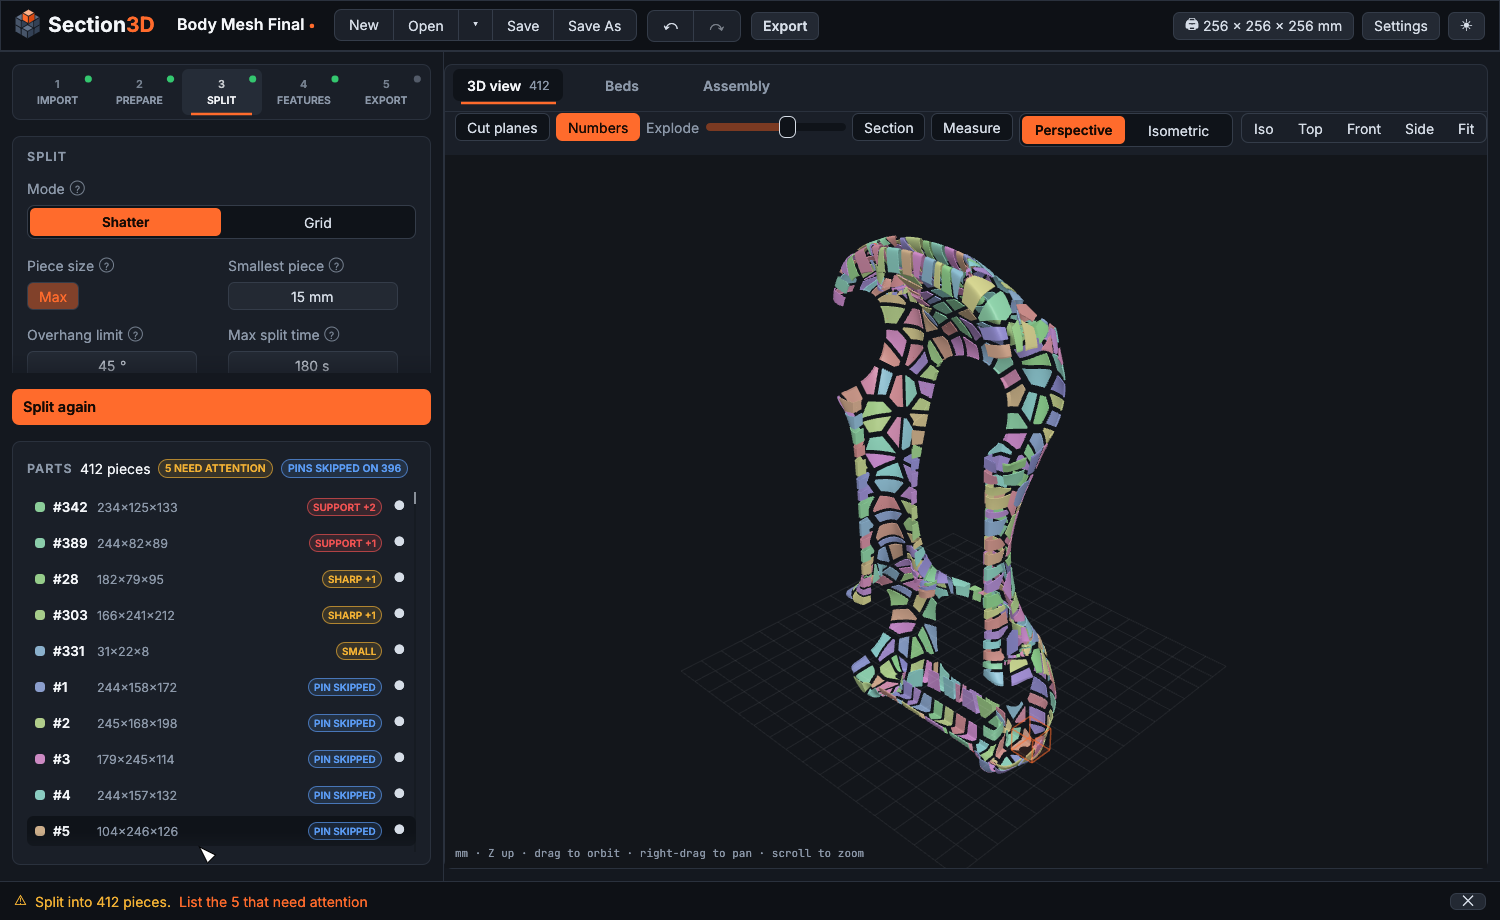
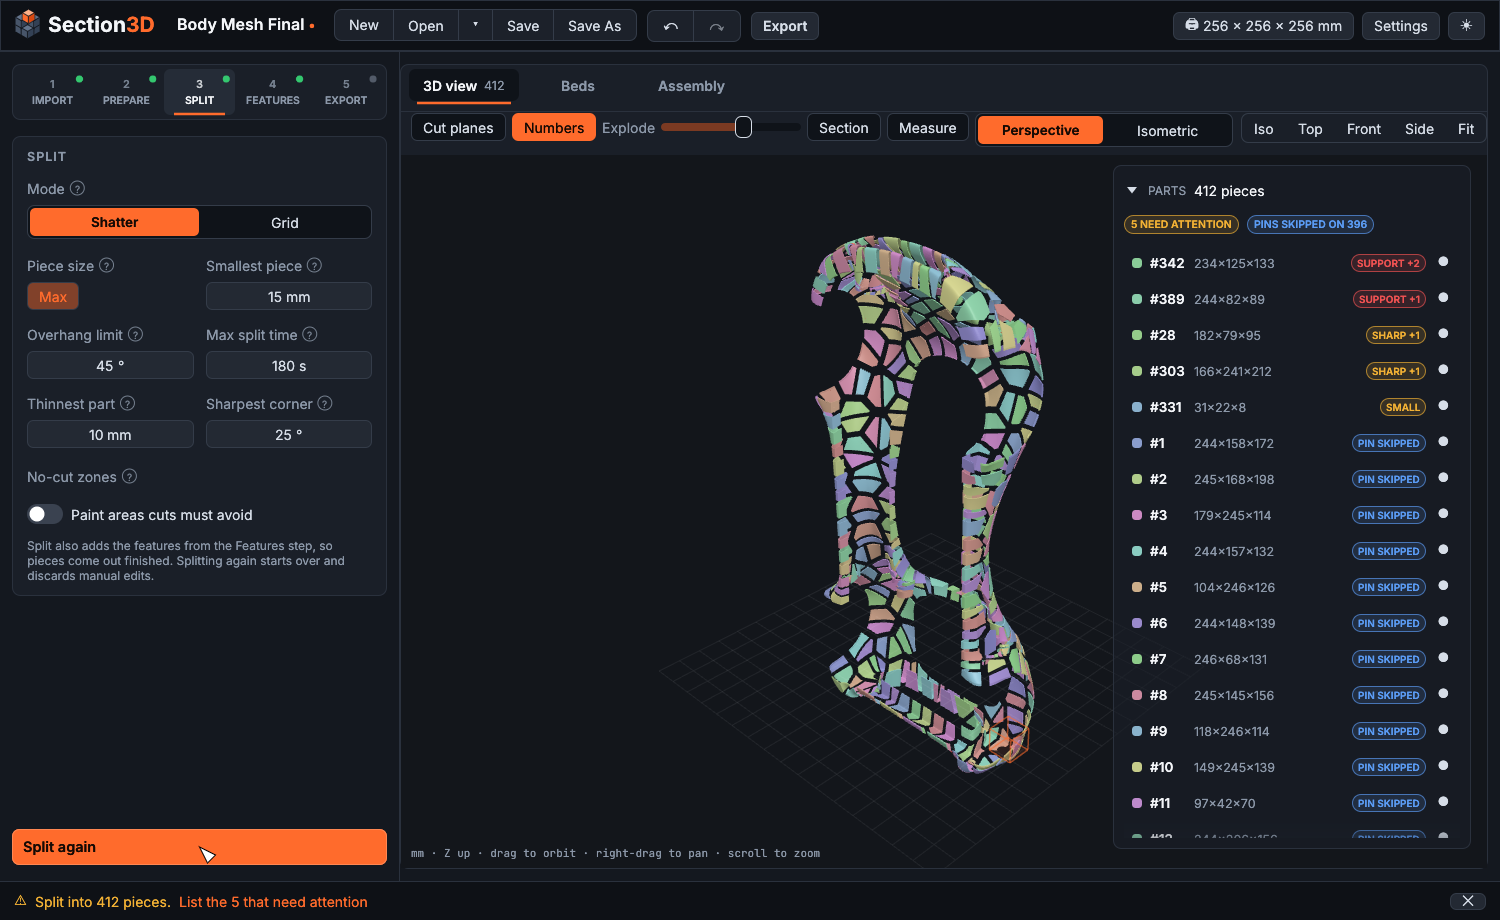
Parts list as a collapsible overlay on the 3D view; higher-contrast assembly outline; version 1.0.0
- The parts list floats see-through over the right side of the 3D view and
  folds to its heading (remembered between sessions)
- The joining part in the assembly view gets a dark halo under an outline
  that pulses from the accent to near white
- Version 1.0.0; README screenshots refreshed

diff --git a/crates/s3d-app/src/parts.rs b/crates/s3d-app/src/parts.rs
@@ -1,4 +1,5 @@
-//! Parts list and the selected piece's properties (cuts, flags, actions).
+//! Parts list (over the 3D view) and the selected piece's properties (cuts,
+//! flags, actions).
 
 use eframe::egui;
 use egui::{Color32, CornerRadius, RichText, Stroke, Ui, Vec2};
@@ -7,7 +8,7 @@ use s3d_core::partition::{Flag, Partition, PieceId};
 
 use crate::app::S3dApp;
 use crate::theme::{self, Palette};
-use crate::widgets::{self, card, section_title};
+use crate::widgets::{self, card};
 
 pub fn flag_color(p: &Palette, f: &Flag) -> Color32 {
     match f {
@@ -65,61 +66,106 @@ pub fn needs_attention(q: &s3d_core::partition::Piece) -> bool {
 }
 
 const ROW_H: f32 = 30.0;
-/// Height of the parts card with ten rows showing (heading, a note line,
-/// rows and margins).
-pub const LIST_MIN: f32 = ROW_H * 10.0 + 140.0;
+/// Width of the parts list over the 3D view.
+const LIST_W: f32 = 360.0;
 
-pub fn list(app: &mut S3dApp, ui: &mut Ui) {
-    let Some(split) = app.doc.split.clone() else { return };
+/// Parts list: a see-through panel over the right side of the 3D view
+/// (`view`), folded down to its heading when collapsed.
+pub fn overlay(app: &mut S3dApp, ui: &mut Ui, view: egui::Rect) {
+    if app.doc.split.is_none() {
+        return;
+    }
     let p = app.palette();
+    let width = LIST_W.min(view.width() * 0.5);
+    let area = egui::Rect::from_min_max(egui::pos2(view.right() - width - 14.0, view.top() + 10.0), view.right_bottom() - Vec2::new(14.0, 10.0));
+    egui::Area::new(egui::Id::unique("parts_overlay")).order(egui::Order::Middle).fixed_pos(area.min).constrain_to(area).show(ui.ctx(), |ui| {
+        egui::Frame::new()
+            .fill(p.card.gamma_multiply(0.62))
+            .stroke(Stroke::new(1.0, p.card_stroke))
+            .corner_radius(CornerRadius::same(8))
+            .inner_margin(egui::Margin::same(10))
+            .show(ui, |ui| {
+                // Inside the margins and the border.
+                ui.set_width(area.width() - 24.0);
+                list(app, ui, area.bottom() - 10.0, &p);
+            });
+    });
+}
+
+/// The list's heading and, unless collapsed, its rows down to `bottom`.
+fn list(app: &mut S3dApp, ui: &mut Ui, bottom: f32, p: &Palette) {
+    let Some(split) = app.doc.split.clone() else { return };
     let part = &split.partition;
     let flagged = part.pieces.iter().filter(|q| needs_attention(q)).count();
     if flagged == 0 {
         app.view.attention = false;
     }
-    let mut order: Vec<usize> = (0..part.pieces.len()).filter(|&i| !app.view.attention || needs_attention(&part.pieces[i])).collect();
-    // Worst problems first, then by number.
-    let worst = |q: &s3d_core::partition::Piece| q.flags.iter().map(severity).min().unwrap_or(10);
-    order.sort_by_key(|&i| (worst(&part.pieces[i]), part.pieces[i].label));
     let pins = part.pieces.iter().filter(|q| q.flags.contains(&Flag::SkippedDowel)).count();
-    card(ui, |ui| {
-        ui.horizontal(|ui| {
-            section_title(ui, "Parts");
-            ui.label(RichText::new(format!("{} pieces", part.pieces.len())).color(p.text_strong));
+    let open = !app.recent.parts_collapsed;
+    ui.horizontal(|ui| {
+        // The chevron and the title fold the list.
+        let (r, resp) = ui.allocate_exact_size(Vec2::splat(16.0), egui::Sense::click());
+        resp.widget_info(|| egui::WidgetInfo::labeled(egui::Role::Button, true, if open { "Collapse parts" } else { "Expand parts" }));
+        let resp = resp.on_hover_text(if open { "Collapse the parts list" } else { "Expand the parts list" });
+        let c = r.center();
+        let pts = if open {
+            vec![c + Vec2::new(-5.0, -3.0), c + Vec2::new(5.0, -3.0), c + Vec2::new(0.0, 3.5)]
+        } else {
+            vec![c + Vec2::new(-3.0, -5.0), c + Vec2::new(3.5, 0.0), c + Vec2::new(-3.0, 5.0)]
+        };
+        ui.painter().add(egui::Shape::convex_polygon(pts, if resp.hovered() { p.text_strong } else { p.text }, Stroke::NONE));
+        let title = ui.add(egui::Label::new(RichText::new("PARTS").size(12.0).strong().color(p.text_weak)).sense(egui::Sense::click()));
+        if resp.clicked() || title.clicked() {
+            app.recent.parts_collapsed = open;
+            app.recent.save();
+        }
+        ui.label(RichText::new(format!("{} pieces", part.pieces.len())).color(p.text_strong));
+        widgets::right(ui, |ui| {
+            if !app.view.hidden.is_empty() || app.view.isolate.is_some() {
+                if ui.small_button("Show all").clicked() {
+                    app.view.show_all();
+                }
+            }
+        });
+    });
+    if flagged > 0 || pins > 0 {
+        ui.horizontal_wrapped(|ui| {
             if flagged > 0 {
                 let r = widgets::badge_button(ui, &format!("{flagged} NEED ATTENTION"), p.warn, app.view.attention);
                 if r.on_hover_text(if app.view.attention { "Show all pieces" } else { "List only these pieces, worst first" }).clicked() {
                     app.view.attention = !app.view.attention;
+                    app.recent.parts_collapsed = false;
                 }
             }
             if pins > 0 {
                 widgets::badge(ui, &format!("PINS SKIPPED ON {pins}"), p.info).on_hover_text("Walls are too thin for the dowel pins on these pieces. See the Features step.");
             }
-            widgets::right(ui, |ui| {
-                if !app.view.hidden.is_empty() || app.view.isolate.is_some() {
-                    if ui.small_button("Show all").clicked() {
-                        app.view.show_all();
-                    }
-                }
-            });
         });
-        if app.view.attention {
-            ui.horizontal(|ui| {
-                ui.label(RichText::new(format!("Showing the {flagged} pieces that need attention, worst first.")).color(p.text_weak).size(12.5));
-                if ui.link("Show all").clicked() {
-                    app.view.attention = false;
-                }
-            });
-        }
-        ui.add_space(4.0);
-        // Fill the rest of the panel (sized for at least ten rows).
-        let room = (ui.available_height() - 4.0).max(ROW_H * 10.0);
-        egui::ScrollArea::vertical().id_salt("parts").max_height(room).auto_shrink([false, false]).show_rows(ui, ROW_H, order.len(), |ui, range| {
-            for &i in &order[range] {
-                let q = &part.pieces[i];
-                row(app, ui, part, q.id, ROW_H, &p);
+    }
+    if app.recent.parts_collapsed {
+        return;
+    }
+    if app.view.attention {
+        ui.horizontal_wrapped(|ui| {
+            ui.label(RichText::new(format!("Showing the {flagged} pieces that need attention, worst first.")).color(p.text_weak).size(12.5));
+            if ui.link("Show all").clicked() {
+                app.view.attention = false;
             }
         });
+    }
+    let mut order: Vec<usize> = (0..part.pieces.len()).filter(|&i| !app.view.attention || needs_attention(&part.pieces[i])).collect();
+    // Worst problems first, then by number.
+    let worst = |q: &s3d_core::partition::Piece| q.flags.iter().map(severity).min().unwrap_or(10);
+    order.sort_by_key(|&i| (worst(&part.pieces[i]), part.pieces[i].label));
+    ui.add_space(4.0);
+    // Down to the bottom of the view; shorter when there are few pieces.
+    let rows = order.len() as f32 * (ROW_H + ui.spacing().item_spacing.y);
+    let room = (bottom - ui.cursor().top() - 10.0).max(ROW_H * 3.0).min(rows);
+    egui::ScrollArea::vertical().id_salt("parts").min_scrolled_height(room).max_height(room).auto_shrink([false, false]).show_rows(ui, ROW_H, order.len(), |ui, range| {
+        for &i in &order[range] {
+            let q = &part.pieces[i];
+            row(app, ui, part, q.id, ROW_H, p);
+        }
     });
 }
 

diff --git a/crates/s3d-app/src/view.rs b/crates/s3d-app/src/view.rs
@@ -609,13 +609,16 @@ fn viewport(app: &mut S3dApp, ui: &mut Ui, p: &Palette) {
         // added highlighted; everything else faint for context.
         let step = assembly.as_ref().and_then(|a| a.steps.get(app.view.assembly_step.min(a.steps.len())).cloned());
         let numbers = app.view.show_numbers && app.view.tab == Tab::Model;
-        // The joining part's outline pulses slowly in the assembly view.
-        let outline = if assembly.is_some() {
+        // Outline layers, drawn in order. In the assembly view the joining
+        // part gets a dark halo under a line that pulses slowly from the
+        // accent to near white, so it stands out on any piece colour.
+        let outline: Vec<([f32; 4], f32)> = if assembly.is_some() {
             ui.ctx().request_repaint_after(std::time::Duration::from_millis(33));
             let k = pulse(ui.input(|i| i.time));
-            (rgba(p.accent, 0.3 + 0.7 * k), 1.5 + 2.0 * k)
+            let core = widgets::lerp_color(p.accent, Color32::from_rgb(0xFF, 0xF4, 0xE8), 0.75 * k);
+            vec![([0.0, 0.0, 0.0, 0.85], 5.0 + 2.0 * k), (rgba(core, 1.0), 2.5 + k)]
         } else {
-            (rgba(p.accent, 1.0), 2.0)
+            vec![(rgba(p.accent, 1.0), 2.0)]
         };
         let ink = if p.dark { [0.06, 0.07, 0.09, 0.95] } else { [0.10, 0.11, 0.14, 0.95] };
         for q in &part.pieces {
@@ -664,7 +667,9 @@ fn viewport(app: &mut S3dApp, ui: &mut Ui, p: &Palette) {
                 planes,
             });
             if flags & FLAG_SELECTED != 0 {
-                app.view.outline_edges(mesh_id, q.display_mesh(), model, outline.0, outline.1, &mut frame.lines);
+                for &(color, width) in &outline {
+                    app.view.outline_edges(mesh_id, q.display_mesh(), model, color, width, &mut frame.lines);
+                }
             }
             if numbers && q.finished.is_some() {
                 // Only numbers big enough on screen to read (tiny ones would
@@ -958,6 +963,9 @@ fn viewport(app: &mut S3dApp, ui: &mut Ui, p: &Palette) {
 
     app.view.viewport.paint(ui, rect, frame);
     overlays(app, ui, rect, p);
+    if show_pieces && app.view.tab == Tab::Model {
+        parts::overlay(app, ui, rect);
+    }
 }
 
 /// Cuts a piece along a line the user drew: the stroke is fitted with a

diff --git a/crates/s3d-app/src/panels.rs b/crates/s3d-app/src/panels.rs
@@ -1,5 +1,5 @@
-//! Left panel: step tabs, each step's settings card and action button, the
-//! parts list and the selected piece's properties.
+//! Left panel: step tabs, each step's settings card and action button, and
+//! the selected piece's properties.
 
 use eframe::egui;
 use egui::{Color32, CornerRadius, RichText, Stroke, Ui, Vec2};
@@ -16,11 +16,10 @@ pub fn show(app: &mut S3dApp, ui: &mut Ui) {
     ui.add_space(10.0);
     let pinned = matches!(app.step, Step::Split | Step::Features | Step::Export);
     let parts = app.doc.split.is_some() && pinned;
-    // The parts list keeps the bottom of the panel, at least ten rows, with
-    // the step's button above it; the selected piece's card and the step's
-    // settings scroll above those.
-    let below = if parts { parts::LIST_MIN } else { 0.0 } + if pinned { 56.0 } else { 0.0 };
-    egui::ScrollArea::vertical().auto_shrink([false, parts]).max_height((ui.available_height() - below).max(80.0)).show(ui, |ui| {
+    // The step's button keeps the bottom of the panel; the selected piece's
+    // card and the step's settings scroll above it.
+    let below = if pinned { 56.0 } else { 0.0 };
+    egui::ScrollArea::vertical().auto_shrink([false, false]).max_height((ui.available_height() - below).max(80.0)).show(ui, |ui| {
         ui.spacing_mut().item_spacing.y = 10.0;
         if parts {
             // A newly picked piece's card comes into view.
@@ -42,10 +41,6 @@ pub fn show(app: &mut S3dApp, ui: &mut Ui) {
     if pinned {
         ui.add_space(10.0);
         action(app, ui);
-    }
-    if parts {
-        ui.add_space(10.0);
-        parts::list(app, ui);
     }
 }
 

diff --git a/crates/s3d-app/tests/ui_flows.rs b/crates/s3d-app/tests/ui_flows.rs
@@ -478,13 +478,22 @@ fn grid_editor_attention_and_better_cut() {
     // Find a better cut: the slice is merged with a neighbour and re-cut.
     h.state_mut().view.select(Some(sliver));
     h.step();
-    // Even with a piece's card open, the list shows at least ten rows.
+    // The parts list over the 3D view shows at least ten rows, and folds
+    // down to its heading.
     h.state_mut().view.attention = false;
     h.run_steps(3);
     assert!(part.pieces.len() >= 10);
+    shot(&mut h, "07b_selected_and_list");
     let rows = h.query_all_by_label_contains("Part #").count();
     assert!(rows >= 10, "{rows} rows showing");
-    shot(&mut h, "07b_selected_and_list");
+    h.get_by_label("Collapse parts").click();
+    h.run_steps(3);
+    assert!(h.state().recent.parts_collapsed);
+    assert_eq!(h.query_all_by_label_contains("Part #").count(), 0, "collapsed list shows no rows");
+    shot(&mut h, "07c_list_collapsed");
+    h.get_by_label("Expand parts").click();
+    h.run_steps(3);
+    assert!(h.query_all_by_label_contains("Part #").count() >= 10);
     h.get_by_label("Find a better cut").scroll_to_me();
     h.run_steps(3);
     h.get_by_label("Find a better cut").click();

diff --git a/crates/s3d-app/src/recent.rs b/crates/s3d-app/src/recent.rs
@@ -1,4 +1,5 @@
-//! Small persistent app config: recent projects, theme and projection.
+//! Small persistent app config: recent projects, theme, projection and
+//! whether the parts list is collapsed.
 //!
 //! Stored in `%APPDATA%\Section3D\config.json`, or next to the executable when
 //! a file named `portable` sits beside it.
@@ -14,11 +15,13 @@ pub struct Recent {
     pub dark: bool,
     /// 3D views use a parallel (isometric) projection.
     pub ortho: bool,
+    /// The parts list over the 3D view is folded to its heading.
+    pub parts_collapsed: bool,
 }
 
 impl Default for Recent {
     fn default() -> Self {
-        Recent { projects: Vec::new(), dark: true, ortho: false }
+        Recent { projects: Vec::new(), dark: true, ortho: false, parts_collapsed: false }
     }
 }
 

diff --git a/crates/s3d-app/src/app.rs b/crates/s3d-app/src/app.rs
@@ -702,6 +702,8 @@ impl S3dApp {
             let flagged = self.doc.split.as_ref().map(|s| s.partition.pieces.iter().filter(|q| crate::parts::needs_attention(q)).count()).unwrap_or(0);
             if flagged > 0 && !self.view.attention && ui.link(format!("List the {flagged} that need attention")).clicked() {
                 self.view.attention = true;
+                self.view.tab = crate::view::Tab::Model;
+                self.recent.parts_collapsed = false;
                 if !matches!(self.step, Step::Split | Step::Features | Step::Export) {
                     self.step = Step::Split;
                 }

diff --git a/README.md b/README.md
@@ -16,7 +16,7 @@ Download it from [Releases](https://github.com/k-kuehn/Section3D/releases).
 | ![Pieces pulled apart](docs/screenshots/exploded.png) | ![A part number on a piece](docs/screenshots/number.png) |
 | Explode the split to see every piece. | Each piece carries its number, raised or cut in. |
 | ![Selected piece and parts list](docs/screenshots/selected.png) | ![Grid cut editor](docs/screenshots/grid.png) |
-| Select a piece to see its size, neighbours and flags. | Grid mode: set the cuts along each axis. |
+| Select a piece to see its size, neighbours and flags; the parts list floats over the view. | Grid mode: set the cuts along each axis. |
 | ![Pieces packed onto beds](docs/screenshots/beds.png) | ![Assembly view](docs/screenshots/assembly.png) |
 | Pieces packed onto as few beds as possible. | The assembly view builds the model up step by step. |
 
@@ -45,9 +45,10 @@ Set your printer's build volume by clicking its size in the top bar (the default
      out of the paint; Grid flags pieces cut through it.
    - **Select pieces**: click a piece to see its size, neighbours and flags; its edges are outlined. *Shift*-click (or
      *Ctrl*-click) adds or removes pieces, in the 3D view or the parts list; *Merge* joins a touching group into one
-     piece. Click the *N need attention* badge to list only the pieces with problems, worst first. The parts list keeps
-     the bottom of the panel (at least ten rows) with the step's main button above it; the selected piece's card and
-     the step's settings scroll above those.
+     piece. Click the *N need attention* badge to list only the pieces with problems, worst first. The parts list sits
+     over the right side of the 3D view, see-through so the model shows behind it; click its arrow (or *Parts*) to fold
+     it to its heading. The selected piece's card and the step's settings are in the left panel, with the step's main
+     button pinned at the bottom.
    - **Right-click** a group of selected pieces to *Merge* them. Right-click a single piece for *Split* (*Draw a cut
      line…*, *Split in two automatically*, *Find a better cut automatically*), *Move number to the other side*,
      *Isolate*, *Isolate with neighbours*, *Hide* or *Show all*.
@@ -75,7 +76,7 @@ Set your printer's build volume by clicking its size in the top bar (the default
 
 The **Assembly** tab, guide and viewer build the model up in sections: each step joins two parts (single pieces
 first, then small sections into larger ones) along their seam, with the seam length and a rough count of heat
-staples. The part being added is highlighted in place among the others, its outline slowly pulsing. The HTML viewer shows the pieces at full
+staples. The part being added is highlighted in place among the others, with a dark-edged outline that slowly pulses from orange to white. The HTML viewer shows the pieces at full
 detail with smooth shading.
 
 The 3D views (model and beds) switch between *Perspective* and *Isometric* (parallel) projection.
